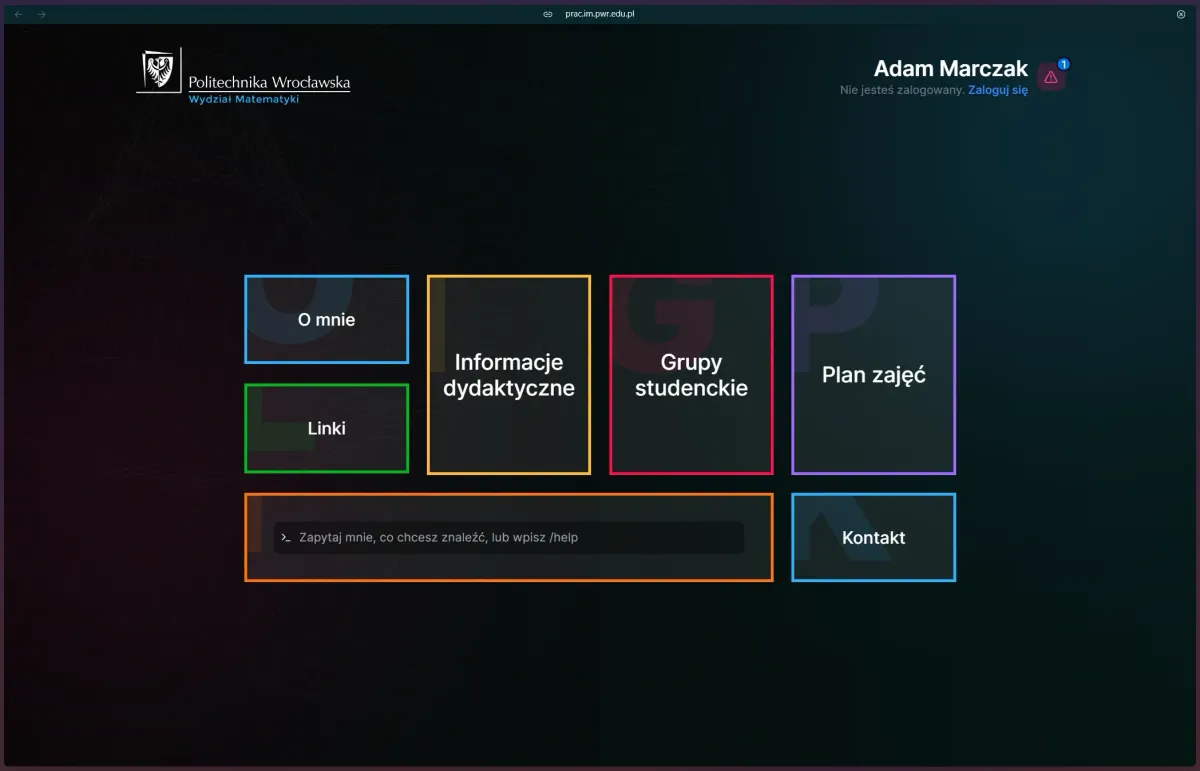
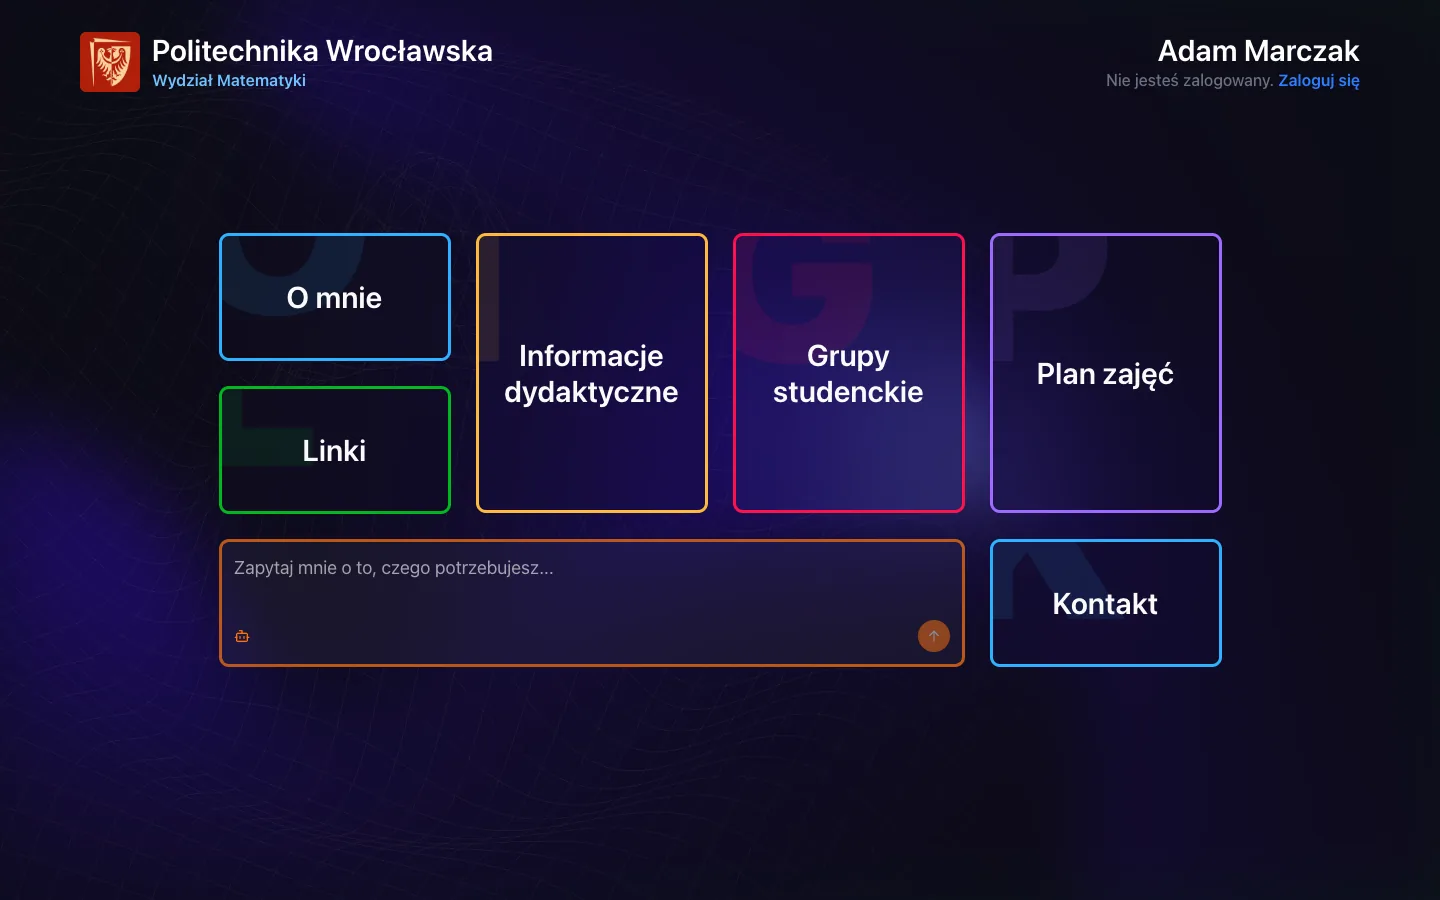
feat: expand the Adam Marczak project and refresh its screenshots

diff --git a/content/projects/adam-marczak/en.md b/content/projects/adam-marczak/en.md
@@ -1,17 +1,51 @@
 ---
 title: Adam Marczak
-description: The site of Dr Adam Marczak from the WUST Faculty of Mathematics, with student log-in.
-type: Website + CMS
+description: The site of Dr Adam Marczak from the WUST Faculty of Mathematics, with the class schedule, office hours, group pages for students, a custom CMS and an AI assistant.
+type: Website, CMS & AI assistant
 role: Full-stack developer
+period: 03/2025 – now
+stat: 2 AI agents
 order: 80
 cover: /projects/adam-marczak.webp
 url: https://prac.im.pwr.edu.pl/~amarczak/
-tags: [Vite, Next.js, MongoDB, WebSockets]
+tags: [Next.js, tRPC, Better Auth, Drizzle, eve, AI SDK]
 ---
 
-## Key features
+## About
 
-- Student log-in
-- Secured file downloads
-- Custom CMS for content and layout
-- AI assistant
+A lecturer’s website at the Faculty of Mathematics of Wrocław University of Science and Technology. Students use it for the class schedule, office hours, teaching materials and announcements. It is a pnpm monorepo with four apps: the public site, an admin panel and two AI agents. I wrote 216 of its 218 commits.
+
+![Weekly class schedule](/projects/adam-marczak-plan.webp)
+
+## For students
+
+- A weekly schedule with the building and room on every class; columns size themselves to overlapping classes and empty days are hidden
+- Office hours for the current term and the exam session
+- Group pages with materials, where some sections and files are visible only to signed-in members of the group
+- Student sign-in with Better Auth
+- An AI assistant on the home page that answers questions about the schedule, office hours, materials and announcements, reading the data through tools instead of guessing
+- A static Next.js export served under `/~amarczak`, with breadcrumb JSON-LD for search engines
+
+## Admin panel
+
+- Editing for every part of the site: announcements, office hours, contact, teaching, links, schedule and the About page
+- Student groups and accounts, course pages built from blocks that you reorder by drag and drop with indentation, and course copying
+- Files on S3 served through signed links
+- Passkey sign-in and session management
+- One-click publishing: the panel starts the GitHub Actions deploy and shows each step of the run
+- An admin AI assistant with thread history and memory that edits the site through 36 tools and asks for confirmation before deleting anything
+
+## AI agents
+
+Both agents run on eve, Vercel’s framework for durable AI agents, with OpenAI models through the AI SDK. The student agent has 11 read-only tools, and what it can see comes from the signed-in account, not from what someone claims in the chat.
+
+## Deployment
+
+The faculty server sits behind the university VPN, so the GitHub Actions workflow connects to GlobalProtect with openconnect and uploads the built site over SFTP, together with an `.htaccess` that handles clean URLs.
+
+## Tech stack
+
+- pnpm workspaces: frontend, backend, agent-student and agent-admin
+- Next.js as a static export for the site and as a full app for the panel, with tRPC and TanStack Query
+- Better Auth with passkeys, Drizzle and PostgreSQL
+- S3 storage, AI SDK and eve

diff --git a/content/projects/adam-marczak/pl.md b/content/projects/adam-marczak/pl.md
@@ -1,11 +1,45 @@
 ---
-description: Strona dr. Adama Marczaka z Wydziału Matematyki PWr, z logowaniem dla studentów.
-type: Strona z CMS
+description: Strona dr. Adama Marczaka z Wydziału Matematyki PWr, z planem zajęć, konsultacjami, stronami grup dla studentów, własnym CMS-em i asystentem AI.
+type: Strona, CMS i asystent AI
+period: 03/2025 – obecnie
+stat: 2 agenty AI
 ---
 
-## Kluczowe funkcje
+## O projekcie
 
-- Logowanie dla studentów
-- Pobieranie zabezpieczonych materiałów
-- Własny CMS do zarządzania treścią i układem strony
-- Asystent AI
+Strona prowadzącego z Wydziału Matematyki Politechniki Wrocławskiej. Studenci sprawdzają na niej plan zajęć, konsultacje, materiały dydaktyczne i ogłoszenia. Całość to monorepo w pnpm z czterema aplikacjami: publiczną stroną, panelem administracyjnym i dwoma agentami AI. Napisałem 216 z 218 commitów.
+
+![Tygodniowy plan zajęć](/projects/adam-marczak-plan.webp)
+
+## Dla studentów
+
+- Tygodniowy plan zajęć z budynkiem i salą na każdym kafelku; kolumny dopasowują się do nakładających się zajęć, a puste dni są ukryte
+- Konsultacje w bieżącym semestrze i w sesji
+- Strony grup z materiałami, w których część sekcji i plików widzą tylko zalogowani członkowie grupy
+- Logowanie studentów przez Better Auth
+- Asystent AI na stronie głównej, który odpowiada na pytania o plan, konsultacje, materiały i ogłoszenia i pobiera dane narzędziami zamiast zgadywać
+- Statyczny eksport Next.js pod `/~amarczak`, z breadcrumbami w JSON-LD dla wyszukiwarek
+
+## Panel administracyjny
+
+- Edycja każdej części strony: ogłoszeń, konsultacji, kontaktu, dydaktyki, linków, planu zajęć i zakładki O mnie
+- Grupy i konta studentów, strony kursów z bloków przeciąganych myszą, z wcięciami, i kopiowanie kursów
+- Pliki na S3 udostępniane przez podpisane linki
+- Logowanie passkeyem i zarządzanie sesjami
+- Publikacja jednym kliknięciem: panel uruchamia wdrożenie w GitHub Actions i pokazuje każdy krok
+- Asystent AI dla administratora z historią wątków i pamięcią, który edytuje stronę przez 36 narzędzi i pyta o zgodę przed każdym usunięciem
+
+## Agenty AI
+
+Oba agenty działają na eve, frameworku Vercela do trwałych agentów AI, z modelami OpenAI przez AI SDK. Agent studencki ma 11 narzędzi tylko do odczytu, a zakres tego, co widzi, wynika z zalogowanego konta, a nie z tego, co ktoś napisze w rozmowie.
+
+## Wdrożenie
+
+Serwer wydziału jest za uczelnianym VPN-em, więc workflow w GitHub Actions łączy się z GlobalProtect przez openconnect i wysyła zbudowaną stronę po SFTP, razem z plikiem `.htaccess` do czystych adresów.
+
+## Stack
+
+- pnpm workspaces: frontend, backend, agent-student i agent-admin
+- Next.js jako statyczny eksport strony i pełna aplikacja panelu, z tRPC i TanStack Query
+- Better Auth z passkeys, Drizzle i PostgreSQL
+- S3, AI SDK i eve
